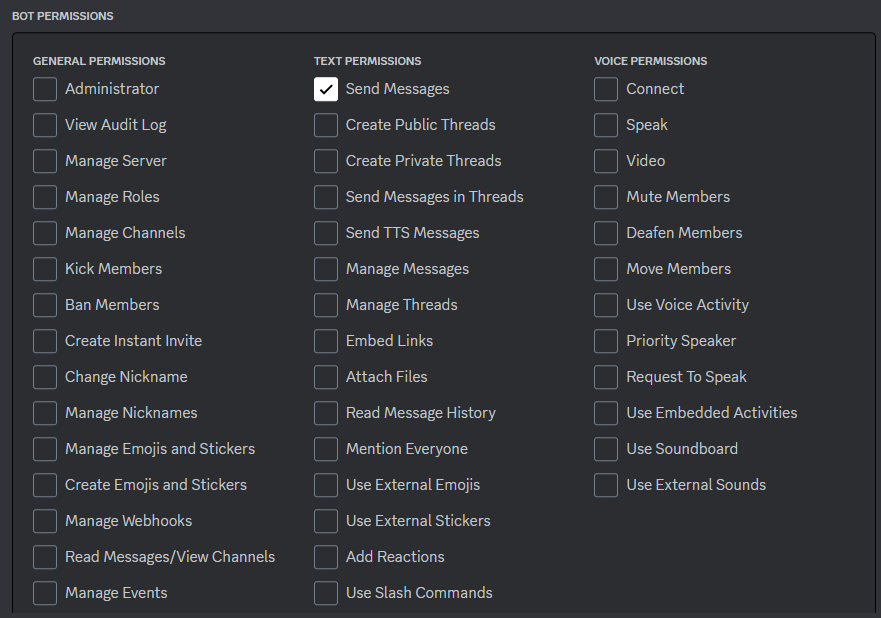
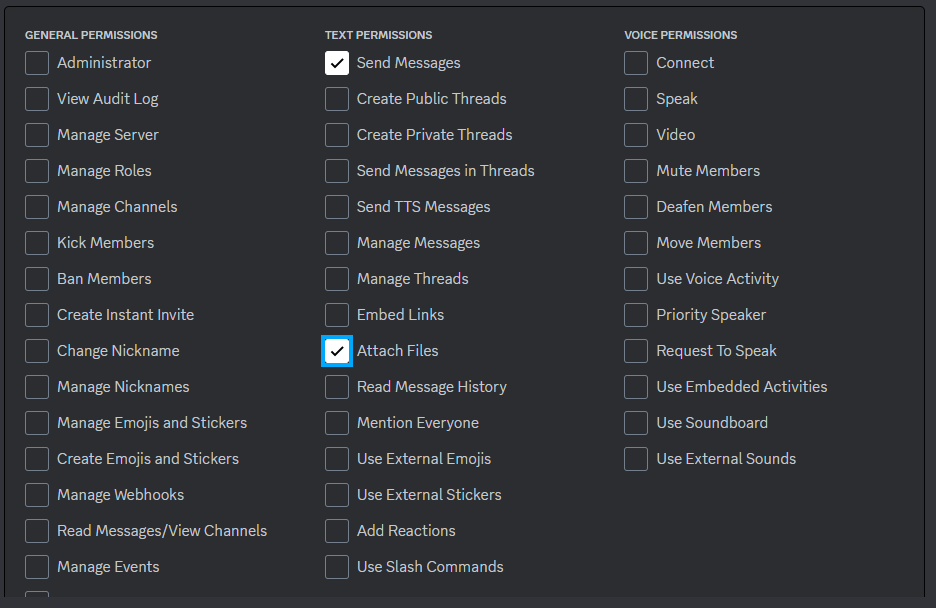
サンプル追加他 (#6)

diff --git a/Work5_sample.md b/Work5_sample.md
@@ -1,0 +1,153 @@
+## 課題 5 サンプル
+
+### 連続する会話
+- select.callbackで選択されたあとの処理の中でもう一回
+    - ドロップダウンリストを作成
+    - 選択されたあとの処理を追加
+    - Viewを作成し、ドロップダウンリストを追加
+    - ドロップダウンリストを送信
+- 例)on_slash.pyのon_prefecture_selectedを改修する形で。。。
+```python
+    async def evaluation(interaction: discord.interactions.Interaction):
+        valuation = interaction.data['values'][0]
+
+        await interaction.response.send_message(f"高評価ありがとうございます！", ephemeral=False)
+
+    async def on_prefecture_selected(interaction: discord.interactions.Interaction):
+        # 選択されたものを取り出す
+        prefecture = interaction.data['values'][0]
+
+        # メッセージを送信する
+        text = weather(prefecture)
+        await interaction.response.send_message(text, ephemeral=False)
+
+        # 新規にドロップダウンリストを作成
+        select2 = discord.ui.Select(placeholder="評価をお願いします！")
+        # ドロップダウンリストに選択肢を追加
+        select2.add_option(
+            label="良かった",
+            value="good"
+        )
+        select2.add_option(
+            label="良くなかった",
+            value="bad"
+        )
+        # 選択されたあとの処理を追加
+        select2.callback = evaluation
+
+        # Viewを作成し、ドロップダウンリストを追加
+        view = discord.ui.View()
+        view.add_item(select2)
+
+        # ドロップダウンリストを送信
+        await interaction.followup.send("いかがでしたか？", view=view)
+```
+
+
+### リマインダーbot
+- on_readyにリマインダー機能を記述する
+```python
+#on_ready.py
+from discord.ext import tasks
+from work5.on_slash import get_remind_list
+import datetime
+import math
+
+    #リマインド機能
+    #一秒ごとに処理を実行する
+    @tasks.loop(seconds=1)
+    async def push_remind():
+        channel =  client.get_channel(CHANNEL_ID)
+        remind_list = get_remind_list()
+        # リマインド時刻一覧を取得
+        keys = remind_list.keys()
+        for key in keys:
+            now_time = round(datetime.datetime.now().timestamp())
+            key_time = round(datetime.datetime.strptime(key, '%Y-%m-%d %H:%M:%S').timestamp())
+            if (now_time == key_time):
+                remind = remind_list.get(key) 
+                text = f"{remind[0].mention} さん{remind[1]}の時間です！！！"
+                await channel.send(text)
+```
+- on_slash.pyにリマインダーを登録するスラッシュコマンドを記述する
+```python
+#on_slash.py
+remind_list = {}
+def on_slash(client: discord.Client, tree: discord.app_commands.CommandTree, commands: discord.app_commands, CHANNEL_ID: int, SERVER_ID: int):
+
+    #リマインダー登録
+    # 時刻は '2012-12-29 13:49:37'のような形式で入力します
+    @tree.command(
+        name="add_remind",  # コマンド名
+        description="リマインドを登録します"  # コマンドの説明
+    )
+    @commands.describe(remind="リマインド内容を入力してください")
+    @commands.describe(remind_time="リマインド時刻を入力してください")
+    @commands.guilds(SERVER_ID)
+    async def on_slash_add_remind(interaction: discord.interactions.Interaction, remind : str, remind_time: str):
+        # 特定のチャンネル外での実行は無視する
+        if interaction.channel.id != CHANNEL_ID:
+            await interaction.response.send_message("このチャンネルでは使用できません", ephemeral=True)
+            return
+
+        #例）宛先：リマインド内容
+        remind_value = (interaction.user, remind)
+        
+        
+        #同じ時間に登録されると上書きされるので注意
+        remind_list[remind_time] = remind_value
+
+        # メッセージを送信する
+        text = f"リマインダーを登録しました。時刻：{remind_time} : {remind}"
+        await interaction.response.send_message(text, ephemeral=False)
+
+# リマインド一覧を返却する関数
+def get_remind_list():
+    return remind_list
+```
+
+### ChatGptを組み込む
+- openaiのAPI_KEYを取得する。
+- 取得方法は[こちら](https://auto-worker.com/blog/?p=6988)
+- .envに追記（！！！！ソースコード上にAPI_KEYを直接書かないこと！！！！）
+```
+API_KEY = <openaiのAPI_KEY>
+```
+- openaiにpackage追加
+    - Pipfileの[packages]の下にopenai = "*"を記載
+    - pipenv installを実行
+    - pipenv shellを実行
+
+```python
+#on_message.py
+import os
+import openai
+
+# .envにOPENAI_IDを定義し、取得したapikeyを記述しておく
+openai.api_key = os.environ['API_KEY']
+def on_message(client: discord.Client, CHANNEL_ID: int):
+
+    @client.event
+    async def on_message(message: discord.message.Message):
+        # 自分のチャンネル以外でのメンションは無視する
+        if message.channel.id != CHANNEL_ID:
+            return
+
+        # メッセージ送信者がBotだった場合は無視する
+        if message.author.bot:
+            return
+
+        # 下準備
+        # channel
+        channel = client.get_channel(CHANNEL_ID)
+        # message
+        message = message
+
+        response = openai.ChatCompletion.create(
+        model="gpt-3.5-turbo",
+        messages=[
+            {"role": "user", "content": message.content},
+        ],
+        )
+        await message.reply(response.choices[0]["message"]["content"].strip())
+```

diff --git a/Readme.md b/Readme.md
@@ -203,6 +203,7 @@ VS Codeのターミナルで以下のコードを実行する
 ![picture 49](doc/img/create_discord_bot_6.png)  
    必要な権限は以下
    * Send Messages
+   * Attach Files
 4. 更に下にスクロールすると認証用URL（『GENERATED URL』）が表示されているので、コピーして、ブラウザのタブを開いて、そのURLにアクセスする  
    ![picture 50](doc/img/create_discord_bot_7.png)  
 5. アクセスして表示された画面でBotを追加するサーバーを選択し、『はい』を押す  

diff --git a/Work5.md b/Work5.md
@@ -21,6 +21,8 @@ python app.py work5
   - work5/ にあるファイルのいずれか
 - やること
   - これまでの知識を元に自分で考えたBotをプログラムしてみよう！
+  - サンプルをいくつか用意するので参考にしてください。
+  - [サンプル](./Work5_sample.md)
 
 ---
 ### 提出方法
